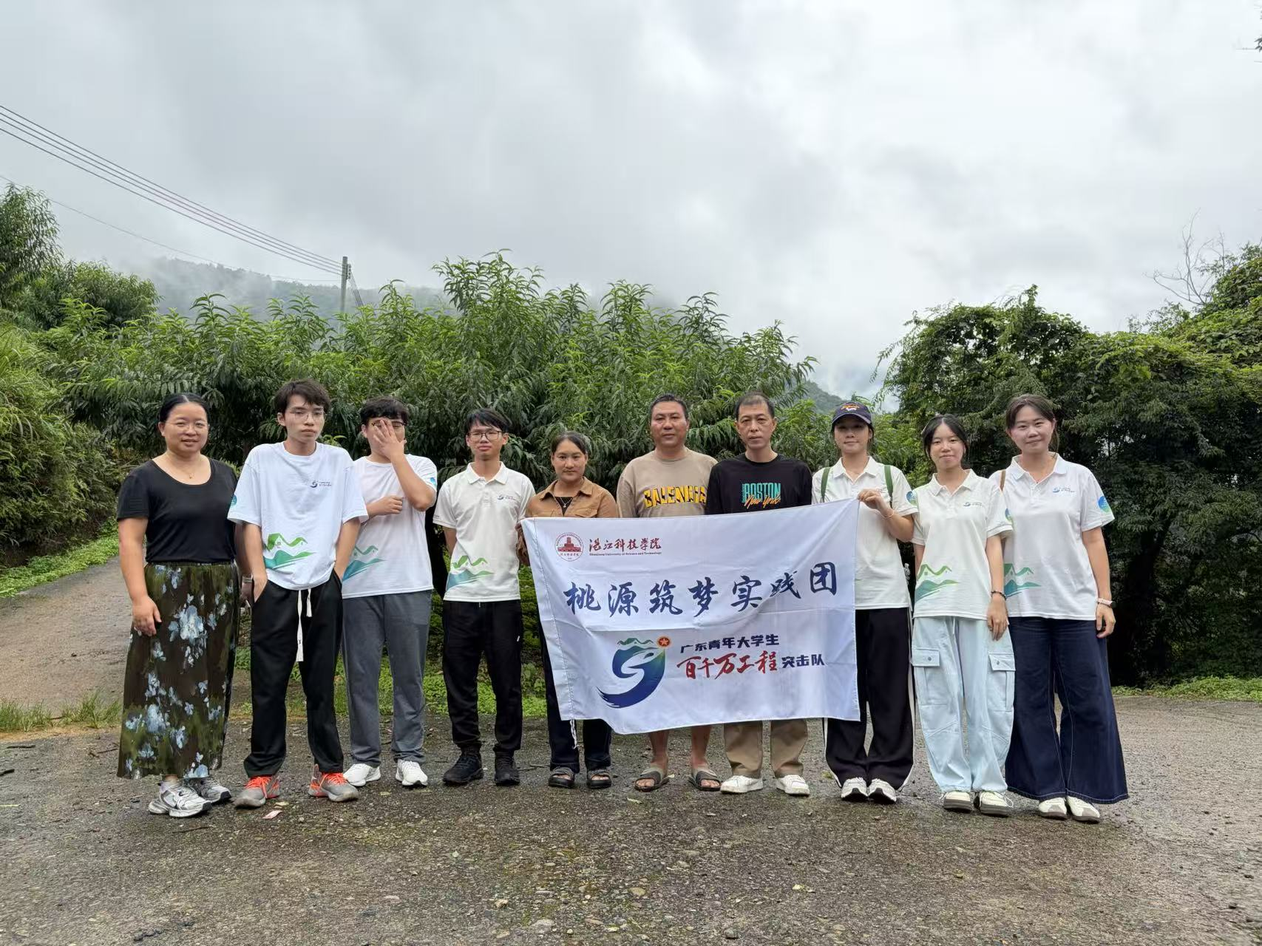
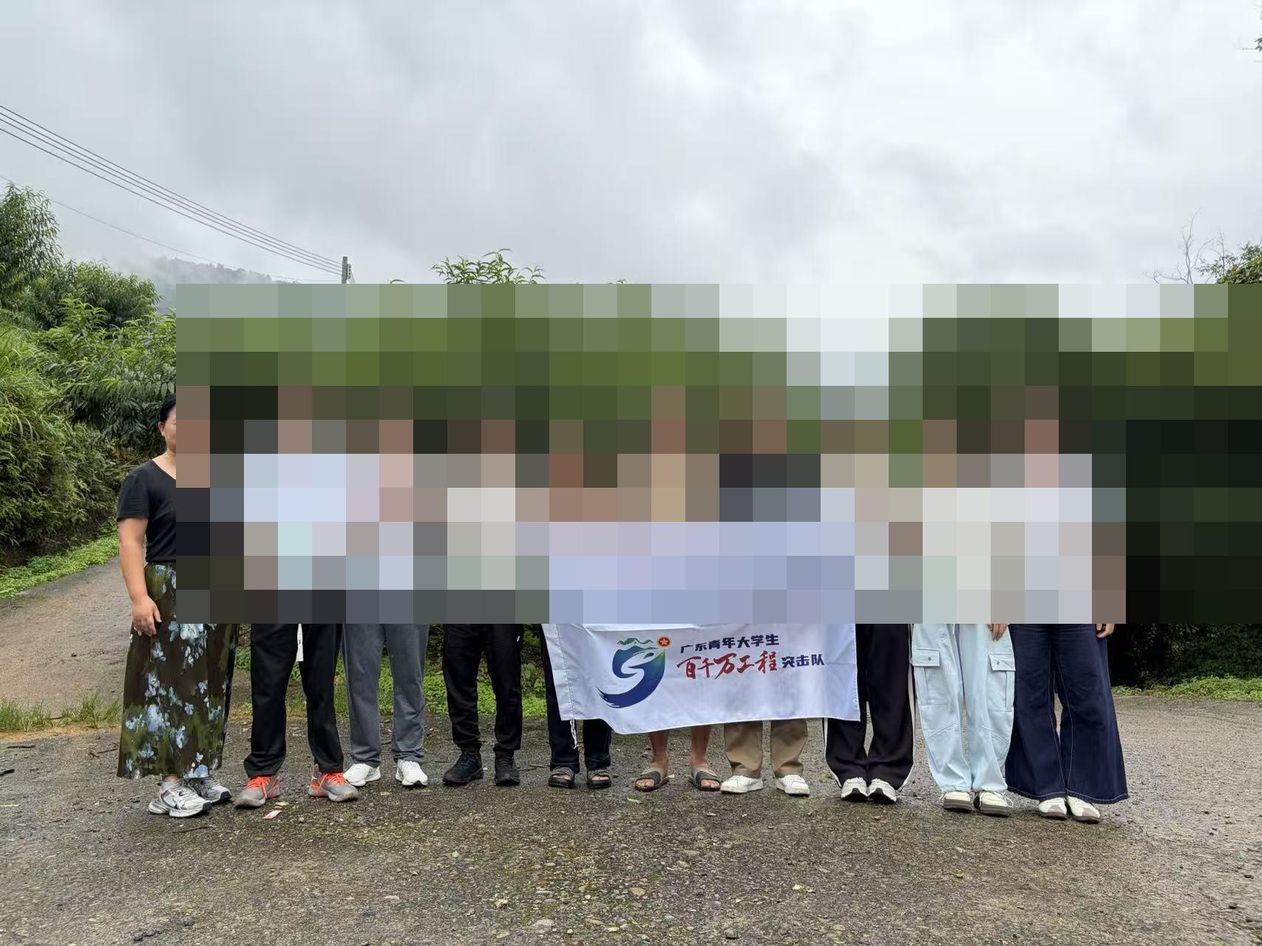
Privacy review: remove personal codes and redact identifying imagery

Changed region(s): [[0.1242, 0.2812, 1.0, 0.6562]]

diff --git a/front-cms.js b/front-cms.js
@@ -14,7 +14,7 @@ window.PeachEnhance = function({api,state,groups,survey,renderers,shell,btn,link
   renderers.operator=()=>shell('OPERATIONS / 05','把一批桃，讲清楚、跟到底。',first('feature_controls')?.operatorIntro||'桃农确认事实，学生采集与表达，经验运营者审核、发布和回访。',`<section class="panel panel-pad"><div class="workflow-note"><img src="${media(first('ip_profile')?.image||'assets/web/xiaotaoman.webp')}" alt=""><div><h3>运营工作已接入独立后台。</h3><p>先核验商品，再用小桃满做表达；咨询进入客户卡，已有渠道成交进入订单台账，履约、回访和经营建议接着回写。</p><div class="action-row"><a class="button button-primary" href="/admin/" target="_blank" rel="noopener">${api.user?'进入运营后台':'登录运营后台'} ↗</a>${link('看公开内容','content')}${link('查看我的记录','records')}</div><details class="compact-details"><summary>进入具体工作</summary><div class="action-row">${[['project','项目与流程'],['work/tasks','青年任务与验收'],['work/orders','订单与履约'],['work/customers','客户与回访'],['work/summary','经营看板']].map(([r,t])=>`<a class="button" href="/admin/#${r}" target="_blank" rel="noopener">${t} ↗</a>`).join('')}</div></details></div></div></section>`,'业务记录受权限保护 · 公开页面展示已发布内容');
   renderers.content=()=>{const keys=Object.keys(ipData);if(!keys.includes(state.content))state.content=keys[0];const d=ipData[state.content];return shell('CONTENT / 06','真实素材，换一种表达。','栏目、渠道脚本和审核后的内容在同一处查阅。',`${d?`<section class="panel panel-pad"><div class="tabs" role="tablist" aria-label="内容主题">${Object.entries(ipData).map(([k,v])=>`<button type="button" data-content="${k}" class="${state.content===k?'is-active':''}">${esc(v.title)}</button>`).join('')}</div><div class="content-workspace"><div class="content-preview"><img src="${media(d.image)}" alt="${esc(d.title)}"><span>素材来源：${esc(d.sourceRef)}</span></div><div><span class="view-kicker">${esc(d.use)}</span><h3>${esc(d.title)}</h3><p>${esc(d.copy)}</p><div class="notice">${esc(d.owner)}</div><div class="channel-grid">${cms.templates.map(t=>btn(t.title,'compose',state.content+':'+t.channel+':'+t.id)).join('')}</div><p class="form-note">模板可编辑、复制、下载；保存与审核需要运营成员登录。模板不冒充在线AI。</p></div></div></section>`:empty('栏目更新中')}${publications()}`,'已发布内容来自后台 · 渠道模板保留事实依据');};
   renderers.rural=()=>{const r=tour();if(!r)return shell('PEACH VILLAGE / 07','一日桃乡','路线更新中',empty());const nodes=r.stops.slice(0,3);return shell('PEACH VILLAGE / 07','跟着小桃满，走一趟桃乡。',r.description,`<div class="section-toolbar"><label>选择路线<select data-tour-select>${cms.tours.map(x=>`<option value="${x.id}" ${x.id===r.id?'selected':''}>${esc(x.name)}</option>`).join('')}</select></label></div><div class="rural-layout"><div class="route-map"${r.image?` style="background-image:linear-gradient(0deg,rgba(8,40,30,.45),rgba(8,40,30,.05)),url(&quot;${esc(media(r.image))}&quot;)"`:""}><div class="route-title"><span>A DAY IN SHANGPING</span><b>${esc(r.name)}</b></div>${nodes.map((s,i)=>`<button class="route-pin ${['one','two','three'][i]}" type="button" data-action="tour-stop" data-value="${i}"><i></i>${esc(s[0])} ↗</button>`).join('')}<span class="route-line"></span><img src="${media(first('ip_profile')?.image||'assets/web/xiaotaoman.webp')}" alt="小桃满导览"></div><section class="panel panel-pad"><h3>先了解，再出发。</h3><div class="tour-stops">${r.stops.map(([t,c],i)=>`<button type="button" data-action="tour-stop" data-value="${i}"><span>${i+1}</span><div><b>${esc(t)}</b><small>${esc(c)}</small></div><em>↗</em></button>`).join('')}</div><div class="notice">${esc(r.conditions)}<br>${r.bookingAvailable?'接待条件已核实，出行仍须运营逐次确认。':'接待条件尚待核实。'}${r.inquiryEnabled===false?'当前暂停收集路线咨询意向。':'可提交咨询意向，等待运营回复。'}<br>可接待日期：${esc(r.openDates.join('、')||'待确认')} · 容量：${r.capacity===null?'待确认':r.capacity+'人'}</div>${tourButton(r)}</section></div>`,'提交意向不生成预约确认或扣款');};
-  renderers.service=()=>shell('CARE / 08','收到桃之后，小桃满还在。','购买前确认规则，签收后留存凭据，遇到问题可在这里反馈。',`<div class="service-layout"><aside class="service-intro"><span class="view-kicker">从收到，到回访</span><h3>先说清，再发货。</h3><p>当批发货、保存及售后说明，以公开批次信息为准。提交反馈后，在原浏览器的“我的记录”中查看处理进度。</p><div class="action-row">${btn('填写售后反馈','claim-form')}${link('查看反馈进度','records')}${link('查看批次','trace')}</div></aside><section class="panel panel-pad"><h3>你可能想先问</h3><div class="faq-list">${cms.faqs.map((f,i)=>`<details class="faq-item" ${i===0?'open':''}><summary><span>0${i+1}</span><b>${esc(f.question)}</b><i aria-hidden="true">＋</i></summary><div class="faq-answer"><p>${esc(f.answer)}</p>${f.sourceRef?`<small>依据：${esc(f.sourceRef)}</small>`:''}</div></details>`).join('')}</div><div class="qr-row">${cms.social.map(x=>`<button class="qr-button" type="button" data-action="social" data-value="${x.id}"><img src="/${esc(x.image).replace(/^\//,'')}" alt="${esc(x.title)}二维码"><span><b>${esc(x.title)}</b><span>点击放大二维码</span></span></button>`).join('')}</div></section></div>`,'反馈与照片保存在后台 · 售后结果由运营核验');
+  renderers.service=()=>shell('CARE / 08','收到桃之后，小桃满还在。','购买前确认规则，签收后留存凭据，遇到问题可在这里反馈。',`<div class="service-layout"><aside class="service-intro"><span class="view-kicker">从收到，到回访</span><h3>先说清，再发货。</h3><p>当批发货、保存及售后说明，以公开批次信息为准。提交反馈后，在原浏览器的“我的记录”中查看处理进度。</p><div class="action-row">${btn('填写售后反馈','claim-form')}${link('查看反馈进度','records')}${link('查看批次','trace')}</div></aside><section class="panel panel-pad"><h3>你可能想先问</h3><div class="faq-list">${cms.faqs.map((f,i)=>`<details class="faq-item" ${i===0?'open':''}><summary><span>0${i+1}</span><b>${esc(f.question)}</b><i aria-hidden="true">＋</i></summary><div class="faq-answer"><p>${esc(f.answer)}</p>${f.sourceRef?`<small>依据：${esc(f.sourceRef)}</small>`:''}</div></details>`).join('')}</div><div class="qr-row">${cms.social.map(x=>`<button class="qr-button" type="button" data-action="social" data-value="${x.id}"><img src="/${esc(x.image).replace(/^\//,'')}" alt="${esc(x.title)}二维码"><span><b>${esc(x.title)}</b><span>查看联系说明</span></span></button>`).join('')}</div></section></div>`,'反馈与照片保存在后台 · 售后结果由运营核验');
   renderers.records=()=>{const records=api.snapshot().records,list=records.filter(x=>state.records==='all'||x.kind===state.records);return shell('MY RECORDS','每次操作，都有下文。',first('feature_controls')?.recordsNote||'这里显示当前浏览器提交的最近100条记录。保留Cookie才能自动查询；记录不会向其他访客公开。',`<div class="section-toolbar"><div class="tabs" role="tablist" aria-label="记录类型">${[['all','全部'],['consultation','商品咨询'],['claim','售后反馈'],['tour','路线意向']].map(([k,v])=>`<button type="button" data-record-filter="${k}" class="${state.records===k?'is-active':''}">${v} · ${k==='all'?records.length:records.filter(r=>r.kind===k).length}</button>`).join('')}</div>${btn('导出我的记录','export-records')}${btn('刷新处理进度','refresh-records')}</div>${list.length?`<div class="record-list">${list.map(r=>`<article class="record-card"><div><span class="status status-${r.status==='resolved'?'evidence':'pending'}">${({pending:'待跟进',processing:'处理中',resolved:'处理完成'})[r.status]}</span><small>${esc(r.kind==='tour'?'出行意向':r.kind==='claim'?'售后反馈':'商品咨询')}</small></div><h4>${esc(r.productName||r.date||'售后反馈')}</h4><p>${esc(r.name)} · ${esc(r.region)}</p>${r.reply?`<p class="record-reply">运营回复：${esc(r.reply)}</p>`:''}<div class="record-bottom"><code>${esc(r.id)}</code>${btn('查看详情','record',r.id)}</div></article>`).join('')}</div>`:empty('这里还没有记录','先咨询一个规格，或提交售后与出行意向。','consumer')}`,'仅显示本浏览器提交记录 · 跟进操作由后台成员完成');};
   const originalAPI=renderers.api;renderers.api=()=>originalAPI().replaceAll('执行本地请求','执行服务端请求').replaceAll('本地接口清单','服务端接口清单').replaceAll('当前实现本地数据与校验，真实后台须实现同样契约并增加服务端权限。','当前使用服务端校验、数据库和权限控制。运营操作需要后台成员登录。').replaceAll('当前无远端服务器、文件上传或在线模型调用。','已接入数据库与图片存储；当前未接入在线模型。').replaceAll('写入仅影响本地演示','写入由服务器保存').replaceAll('请求会执行本地实现，写入会产生本地演示记录。','公开写入会保存到服务器；运营接口由账号权限保护。').replaceAll('完整接入说明见BACKEND.md。','管理员可在后台查看运行与备份状态。');
   const s=first('settings');if(s){document.querySelector('.brand strong').textContent=s.brand;const title=document.querySelector('#home-title');title.textContent=s.slogan;document.querySelector('.hero-copy>p').textContent=s.heroIntro;document.querySelector('.hero-note>span:last-child').textContent=s.heroNote;document.querySelector('.hero-photo img').src=media(s.heroPhoto);document.querySelector('.hero-ip img').src=media(s.ipImage);document.querySelector('.proof-grid').innerHTML=s.proofs.map(([n,t,d])=>`<div><b>${esc(n)}</b><span>${esc(t)}</span><small>${esc(d)}</small></div>`).join('');}
@@ -34,7 +34,7 @@ window.PeachEnhance = function({api,state,groups,survey,renderers,shell,btn,link
     if(type==='ip-guide'){const p=first('ip_profile');download('小桃满_使用说明.txt',p.name+'\n'+p.identity+'\n'+p.guide+'\n来源：'+p.sourceRef);return true;}
     if(type==='tour-form'&&tour()?.inquiryEnabled===false){toast('该路线已暂停接收咨询意向，请稍后查看。');return true;}
     if(type==='tour-stop'){const r=tour(),stop=r?.stops[Number(value)];if(!stop)throw Error('路线节点已变化，请刷新');openModal(`<h3 id="modal-title">${esc(stop[0])}</h3><p>${esc(stop[1])}</p><p>${esc(r.conditions)}</p>${tourButton(r,'记录路线意向')}`);return true;}
-    if(type==='social'||type==='download-social'){const s=cms.social.find(x=>x.id===value);if(!s)throw Error('联系入口不存在');if(type==='download-social')asset(s.image,s.title+'.'+s.image.split('.').pop());else openModal(`<h3 id="modal-title">${esc(s.title)}</h3><p>${esc(s.description)}</p><img class="social-qr" src="/${esc(s.image).replace(/^\//,'')}" alt="${esc(s.title)}">${btn('下载二维码','download-social',value)}`);return true;}
+    if(type==='social'||type==='download-social'){const s=cms.social.find(x=>x.id===value);if(!s)throw Error('联系入口不存在');if(type==='download-social')asset(s.image,s.title+'.'+s.image.split('.').pop());else openModal(`<h3 id="modal-title">${esc(s.title)}</h3><p>${esc(s.description)}</p><img class="social-qr" src="/${esc(s.image).replace(/^\//,'')}" alt="${esc(s.title)}">${btn('下载联系说明','download-social',value)}`);return true;}
     return false;
   },tourId:()=>tour()?.id,template(key,channel,templateId){const d=ipData[key]||Object.values(ipData)[0],t=cms.templates.find(x=>templateId?x.id===templateId:x.channel===channel);if(!d||!t)return null;return{title:d.title+' · '+t.title,body:t.body.replace(/\{(title|copy|voice)\}/g,(_,k)=>d[k]||'')};}};
   document.addEventListener('change',e=>{if(e.target.matches('[data-tour-select]')){state.tourId=e.target.value;document.dispatchEvent(new CustomEvent('peach:refresh'));}});

diff --git a/app.js b/app.js
@@ -57,7 +57,7 @@ function renderContent(){const d=ipData[state.content];return shell('CONTENT / 0
 function renderRural(){const stops=[['桃园观察','认识花期、套袋和成熟节奏；开放日期、人数和安全条件待确认。'],['分拣体验','认识规格分级与包装；指导人员、时长和卫生规范待确认。'],['集市与礼盒','产地记忆进入礼盒和回访；商品按当季批次确认。']];return shell('PEACH VILLAGE / 07','跟着小桃满，走一趟桃乡。','接待日期、人员与容量待合作方核验。可以记录出行意向，之后再确认。',`
  <div class="rural-layout"><div class="route-map"><div class="route-title"><span>A DAY IN SHANGPING</span><b>一日桃乡</b></div>${['one','two','three'].map((k,i)=>`<button class="route-pin ${k}" type="button" data-action="tour-stop" data-value="${i}"><i></i>${stops[i][0]} ↗</button>`).join('')}<span class="route-line"></span><img src="assets/web/xiaotaoman.webp" alt="小桃满导览形象"></div><section class="panel panel-pad"><span class="view-kicker">看见 → 参与 → 带走</span><h3>先了解，再出发。</h3><div class="tour-stops">${stops.map(([t,c],i)=>`<button type="button" data-action="tour-stop" data-value="${i}"><span>0${i+1}</span><div><b>${t}</b><small>${c}</small></div><em>↗</em></button>`).join('')}</div><div class="notice">当前未开放预约。提交意向不锁定名额、不收费，也不代表果园已接受预约。</div>${btn('记录路线咨询意向','tour-form')}</section></div>`,'路线设计示意 · 未确认开放时间 · 记录意向后等待跟进');}
 function renderService(){return shell('CARE / 08','收到桃之后，小桃满还在。','购买前确认规则，签收时留下记录，反馈后继续跟进。售后结果由运营核验。',`
- <div class="service-layout"><aside class="service-intro"><span class="view-kicker">从收到，到回访</span><h3>先说清，再发货。</h3><p>到货时效、损耗和赔付结果须有当批依据。</p><div class="service-steps"><div><b>01 · 购买前</b><span>确认规格、到手总价、发货窗口与售后。</span></div><div><b>02 · 签收时</b><span>检查外箱和果品，留存外箱、面单和照片。</span></div><div><b>03 · 反馈后</b><span>核验后记录处理备注，继续回访。</span></div></div><div class="action-row">${btn('填写售后反馈','claim-form')}${link('查看反馈进度','records')}</div></aside><section class="panel panel-pad"><h3>你可能想先问</h3><div class="faq-list">${[['什么时候发货？','鲜果按成熟度分批采摘。具体日期、区域与运费按可售批次确认；问卷的48小时情境不是配送承诺。'],['收到后如何保存？','先检查外箱和果品，按随箱的当批食用指南保存。没有明确温度与时长时，不用演示文案代替正式指南。'],['有破损或物流问题怎么办？','保留外箱、面单与果品照片，及时联系运营，按购买前公开的批次规则核验。反馈提交不等于已确认赔付。']].map(([t,c],i)=>`<details class="faq-item" ${i===0?'open':''}><summary><span>0${i+1}</span><b>${t}</b><i aria-hidden="true">＋</i></summary><div class="faq-answer"><p>${c}</p></div></details>`).join('')}</div><div class="qr-row">${[['wechat','微信咨询','wechat-contact.png'],['douyin','抖音看果园','douyin.png'],['xhs','小红书看礼盒','xiaohongshu.jpg']].map(([k,t,p])=>`<button class="qr-button" type="button" data-action="social" data-value="${k}"><img src="assets/${p}" alt="${t}二维码"><span><b>${t}</b><span>点击放大二维码</span></span></button>`).join('')}</div></section></div>`,'反馈可保存和跟进 · 页面不确认实际退款或赔付');}
+ <div class="service-layout"><aside class="service-intro"><span class="view-kicker">从收到，到回访</span><h3>先说清，再发货。</h3><p>到货时效、损耗和赔付结果须有当批依据。</p><div class="service-steps"><div><b>01 · 购买前</b><span>确认规格、到手总价、发货窗口与售后。</span></div><div><b>02 · 签收时</b><span>检查外箱和果品，留存外箱、面单和照片。</span></div><div><b>03 · 反馈后</b><span>核验后记录处理备注，继续回访。</span></div></div><div class="action-row">${btn('填写售后反馈','claim-form')}${link('查看反馈进度','records')}</div></aside><section class="panel panel-pad"><h3>你可能想先问</h3><div class="faq-list">${[['什么时候发货？','鲜果按成熟度分批采摘。具体日期、区域与运费按可售批次确认；问卷的48小时情境不是配送承诺。'],['收到后如何保存？','先检查外箱和果品，按随箱的当批食用指南保存。没有明确温度与时长时，不用演示文案代替正式指南。'],['有破损或物流问题怎么办？','保留外箱、面单与果品照片，及时联系运营，按购买前公开的批次规则核验。反馈提交不等于已确认赔付。']].map(([t,c],i)=>`<details class="faq-item" ${i===0?'open':''}><summary><span>0${i+1}</span><b>${t}</b><i aria-hidden="true">＋</i></summary><div class="faq-answer"><p>${c}</p></div></details>`).join('')}</div><div class="qr-row">${[['wechat','微信咨询','contact-safe.png'],['douyin','抖音看果园','contact-safe.png'],['xhs','小红书看礼盒','contact-safe.png']].map(([k,t,p])=>`<button class="qr-button" type="button" data-action="social" data-value="${k}"><img src="assets/${p}" alt="${t}二维码"><span><b>${t}</b><span>查看联系说明</span></span></button>`).join('')}</div></section></div>`,'反馈可保存和跟进 · 页面不确认实际退款或赔付');}
 let slides=[
  {title:'问题与证据',copy:'199/206名产业端受访者回答不会用线上软件卖桃。消费者希望看真实果园与分拣内容，关注口感、完好度和到手总价。',source:'Q06 · C14 / C20 / C25',route:'evidence',image:'origin-walk.jpeg'},
  {title:'消费者路径',copy:'家庭、礼赠和团购分别推荐；规格、参考价及未知履约条件在咨询前展示。意向保存后进入跟进列表。',source:'C15 / C16 / C17 · icanAIOPC商品方案',route:'consumer',image:'fact-gift-c1.jpg'},
@@ -108,8 +108,8 @@ async function action(type,value,el){
  if(type==='publication'){const p=api.snapshot().ops.publications[0];if(p)publication(p);else toast('暂无本地发布记录。');return;}
  if(type==='copy-publication'){const p=api.snapshot().ops.publications[0];if(p)await copy(p.title+'\n'+p.body);return;}
  if(type==='tour-stop'){const stops=[['桃园观察','观看花期、套袋与成熟记录；开放日期、人数、安全提示和天气条件待确认。'],['小桃满分拣台','了解重量分档与装箱；指导人员、体验时间、卫生规范与参与范围待确认。'],['集市与礼盒','体验连接礼盒与线上回访；规格、价格、运费和售后按当批确认。']],s=stops[Number(value)];openModal(`<span class="view-kicker">一日桃乡 · 路线节点</span><h3 id="modal-title">${s[0]}</h3><p>${s[1]}</p><div class="notice">体验设计示意，当前未确认开放。</div>${btn('记录路线意向','tour-form')}`);return;}
- if(type==='social'){const s={wechat:['微信咨询','wechat-contact.png'],douyin:['抖音看果园','douyin.png'],xhs:['小红书看礼盒','xiaohongshu.jpg']}[value];openModal(`<span class="view-kicker">项目现有社交入口</span><h3 id="modal-title">${s[0]}</h3><p>二维码来自项目资料，实时账号状态请在对应应用确认。</p><img class="social-qr" src="assets/${s[1]}" alt="${s[0]}二维码">${btn('下载二维码','download-social',value)}`);return;}
- if(type==='download-social'){const p={wechat:'wechat-contact.png',douyin:'douyin.png',xhs:'xiaohongshu.jpg'}[value];asset('assets/'+p,p);return;}
+ if(type==='social'){const s={wechat:['微信咨询','contact-safe.png'],douyin:['抖音看果园','contact-safe.png'],xhs:['小红书看礼盒','contact-safe.png']}[value];openModal(`<span class="view-kicker">项目现有社交入口</span><h3 id="modal-title">${s[0]}</h3><p>个人联系二维码已移除，请使用本站商品咨询或售后反馈表单联系运营。</p><img class="social-qr" src="assets/${s[1]}" alt="${s[0]}二维码">${btn('下载联系说明','download-social',value)}`);return;}
+ if(type==='download-social'){const p={wechat:'contact-safe.png',douyin:'contact-safe.png',xhs:'contact-safe.png'}[value];asset('assets/'+p,p);return;}
  if(type==='slide-next'||type==='slide-prev'){state.slide=(state.slide+(type==='slide-next'?1:slides.length-1))%slides.length;refresh();return;}
  if(type==='copy-slide'){const s=slides[state.slide];await copy(s.title+'\n'+s.copy+'\n材料依据：'+s.source);return;}
  if(type==='confirm-reset'){openModal(`<h3 id="modal-title">清空本地演练记录？</h3><p>将清空此浏览器的咨询、售后、路线意向、草稿、复核及发布记录。项目调研数据和素材仍可使用。</p><div class="modal-actions">${btn('先导出备份','export-records')}${btn('确认清空','reset')}${btn('取消','close')}</div>`);return;}

diff --git a/server/app.js b/server/app.js
@@ -61,7 +61,7 @@ export function createApp(db,{production=false,secret=token(),appUrl='http://loc
   app.get('/api/admin/source-media/:filename',requireRole('admin','operator','editor','viewer'),async(req,res)=>{if(!/^IMG-[a-f0-9]+[.]webp$/.test(req.params.filename))fail(404,'素材不存在');const f=await one(db,"SELECT mime,bytes FROM media WHERE id=$1 AND visibility='private' AND record_id IS NULL",[req.params.filename.slice(0,-5)]);if(!f)fail(404,'素材不存在');res.type(f.mime).set('Cache-Control','private, no-store').send(Buffer.from(f.bytes));});
   app.get('/api/admin/assets',requireRole('admin','operator','editor','viewer'),async(req,res)=>{const result=[];async function walk(dir,prefix){for(const f of await readdir(dir,{withFileTypes:true})){if(f.isDirectory())await walk(resolve(dir,f.name),prefix+'/'+f.name);else if(/\.(png|jpe?g|webp)$/i.test(f.name))result.push({name:f.name,url:prefix+'/'+f.name});}}await walk(resolve(ROOT,'assets'),'assets');send(res,result);});
   app.post('/api/admin/media',requireRole('admin','operator','editor'),upload.single('image'),async(req,res)=>{if(!req.file)fail(422,'请选择图片');const [f]=await imageFiles([req.file]);const alt=String(req.body.alt||'').slice(0,300),sourceRef=String(req.body.sourceRef||'').slice(0,300);await db.transaction(async tx=>{await tx.query('INSERT INTO media(id,name,mime,size,visibility,bytes,alt,source_ref,actor_id) VALUES($1,$2,$3,$4,$5,$6,$7,$8,$9)',[f.id,f.name,f.mime,f.bytes.length,'public',f.bytes,alt,sourceRef,req.user.id]);await audit(tx,req.user,'media.upload',f.id,{name:f.name,size:f.bytes.length});});send(res,{id:f.id,url:'/media/'+f.id+'.webp',name:f.name},201);});
-  app.get('/media/:filename',async(req,res)=>{if(!/^IMG-[a-f0-9]+\.webp$/.test(req.params.filename))fail(404,'素材不存在');const f=await one(db,"SELECT mime,bytes FROM media WHERE id=$1 AND visibility='public'",[req.params.filename.slice(0,-5)]);if(!f)fail(404,'素材不存在');res.type(f.mime).set('Cache-Control','public,max-age=86400,immutable').send(Buffer.from(f.bytes));});
+  app.get('/media/:filename',async(req,res)=>{if(!/^IMG-[a-f0-9]+\.webp$/.test(req.params.filename))fail(404,'素材不存在');const f=await one(db,"SELECT mime,bytes FROM media WHERE id=$1 AND visibility='public'",[req.params.filename.slice(0,-5)]);if(!f)fail(404,'素材不存在');res.type(f.mime).set('Cache-Control','no-store').send(Buffer.from(f.bytes));});
   app.get('/api/admin/audit',requireRole('admin','operator','viewer'),async(req,res)=>{const{page,limit}=pageParams(req.query),total=Number((await one(db,'SELECT count(*) AS n FROM audit_logs')).n),rows=(await db.query('SELECT * FROM audit_logs ORDER BY id DESC LIMIT $1 OFFSET $2',[limit,(page-1)*limit])).rows;send(res,{items:rows,total,page,limit});});
   app.get('/api/admin/system',requireRole('admin'),async(req,res)=>{const counts={};for(const t of ['content_items','business_records','media','drafts','publications','analytics_events','request_logs','users'])counts[t]=Number((await one(db,'SELECT count(*) AS n FROM '+t)).n);const size=await one(db,'SELECT coalesce(sum(size),0) AS bytes FROM media');send(res,{version:'4.0.0',database:db.kind,production,node:process.version,uptime:Math.round(process.uptime()),counts,mediaBytes:Number(size.bytes),settings:await settings(db),schema:(await one(db,"SELECT value FROM app_meta WHERE key='schema_version'")).value,backupNote:'备份包含业务数据与图片，不含密码哈希和有效会话；恢复后需重新登录。正式环境另需配置Neon备份保留。'});});
   app.get('/api/admin/backup',requireRole('admin'),async(req,res)=>{await audit(db,req.user,'system.backup');const bytes=await createBackup(db);res.type('application/gzip').set('Content-Disposition','attachment; filename="taoxiang-backup-'+new Date().toISOString().slice(0,10)+'.json.gz"').send(bytes);});
@@ -70,7 +70,7 @@ export function createApp(db,{production=false,secret=token(),appUrl='http://loc
   app.use('/api/admin',workflowRouter(db,send));
   app.use('/api',(req,res)=>fail(404,'接口或请求方法不存在'));
   app.use('/admin',express.static(resolve(ROOT,'admin'),{index:'index.html',dotfiles:'deny'}));
-  app.use('/assets',express.static(resolve(ROOT,'assets'),{maxAge:'1d',dotfiles:'deny'}));
+  app.use('/assets',express.static(resolve(ROOT,'assets'),{maxAge:'1d',dotfiles:'deny',setHeaders:(res,file)=>{if(/(?:wechat|douyin|xiaohongshu|contact-safe|origin-walk|peach-market|sorting-check)/i.test(file))res.setHeader('Cache-Control','no-store');}}));
   const publicFiles=new Set(['index.html','styles.css','interactions.css','source-data.js','project-data.js','api.js','remote-api.js','front-cms.js','presentation-cms.js','analytics-client.js','app.js','BACKEND.md']);
   app.get('/',(req,res)=>res.sendFile(resolve(ROOT,'index.html')));
   app.get('/:file',(req,res,next)=>{if(!publicFiles.has(req.params.file))return next();res.sendFile(resolve(ROOT,req.params.file));});

diff --git a/scripts/prepare-seed.js b/scripts/prepare-seed.js
@@ -39,7 +39,7 @@ for(const [slug,title,type,body,sourceRef]of [
  ['collection','30人次访谈汇编','qualitative','与独立访谈可能重合，不简单相加。80／120／150箱采购经历不属于团队交易。未经账目核验不写成经营实绩。','附件06']])add('interviews',slug,{title,type,body,sourceRef});
 add('tours','tour-shangping',{name:'一日桃乡',description:'接待日期、人员与容量待合作方核验。可以记录出行意向，之后再确认。',stops:[['桃园观察','认识花期、套袋和成熟节奏；开放日期、人数和安全条件待确认。'],['分拣体验','认识规格分级与包装；指导人员、时长和卫生规范待确认。'],['集市与礼盒','产地记忆进入礼盒和回访；商品按当季批次确认。']],openDates:[],capacity:null,bookingAvailable:false,conditions:'提交意向不锁定名额、不收费，也不代表果园已接受预约。',sourceRef:'项目路线设计，开放安排待确认'});
 for(const [i,[question,answer]]of [['什么时候发货？','鲜果按成熟度分批采摘。具体日期、区域与运费按可售批次确认；问卷的48小时情境不是配送承诺。'],['收到后如何保存？','先检查外箱和果品，按随箱的当批食用指南保存。没有明确温度与时长时，不用演示文案代替正式指南。'],['有破损或物流问题怎么办？','保留外箱、面单与果品照片，及时联系运营，按购买前公开的批次规则核验。反馈提交不等于已确认赔付。']].entries())add('faqs','faq-'+i,{question,answer,sourceRef:'项目服务说明，按实际批次确认'});
-for(const [slug,title,image]of [['wechat','微信咨询','wechat-contact.png'],['douyin','抖音看果园','douyin.png'],['xhs','小红书看礼盒','xiaohongshu.jpg']])add('social',slug,{title,image:'assets/'+image,description:'二维码来自项目资料，实时账号状态请在对应应用确认。',sourceRef:'项目现有社交入口'});
+for(const [slug,title,image]of [['wechat','微信咨询','contact-safe.png'],['douyin','抖音看果园','contact-safe.png'],['xhs','小红书看礼盒','contact-safe.png']])add('social',slug,{title,image:'assets/'+image,description:'个人联系二维码已移除，请使用本站商品咨询或售后反馈表单联系运营。',sourceRef:'项目现有社交入口'});
 slides.forEach((s,i)=>add('slides','slide-'+i,{...s,image:'assets/'+s.image}));
 for(const [slug,title,body]of [['video','短视频脚本','镜头1｜带日期的真实素材\n{title}\n{copy}\n小桃满提醒：{voice}\n行动：先核对到手总价、运费与发货窗口，再留下咨询意向。'],['live','直播讲解','开场｜先看批次与规格\n{title}\n{copy}\n小桃满提醒：{voice}\n行动：先核对到手总价、运费与发货窗口，再留下咨询意向。'],['group','社群通知','社群通知｜{title}\n{copy}\n小桃满提醒：{voice}\n行动：先核对到手总价、运费与发货窗口，再留下咨询意向。'],['card','随箱说明卡','小桃满的随箱提醒\n批次号：[当批填写]\n产地与采摘日：[核验后填写]\n净重／个数／分级：[按实填写]\n保存指南：[按当批说明填写]\n破损反馈：留存外箱、面单与果品照片，按批次规则核验。']])add('templates',slug,{title,channel:slug,body,sourceRef:'项目渠道内容结构模板，未调用在线AI'});
 add('settings','site',{brand:'数商桃乡',slogan:'数商桃乡，让好桃被看见',heroIntro:pageTitles.home[2],heroNote:'商品参考方案与示例批次有明确状态标识，实际履约需按批次确认。',heroPhoto:'assets/origin-walk.jpeg',ipImage:'assets/xiaotaoman.png',proofs:[['206','产业端受访者','159户自有果园 + 47名代管者'],['243','消费者有效样本','购买偏好与首购阻力'],['437','学生与 OPC 调查','其中351人在校'],['1 批桃','从采摘到回访','示例流程，非实际经营数据']],analyticsEnabled:true,analyticsRetentionDays:180,requestRetentionDays:30,privacyNotice:'本站保存你主动提交的咨询、售后与出行意向，以便项目运营跟进；不在公开页面展示个人记录。访问统计使用匿名标识，不记录完整IP或表单正文。可在页脚关闭访问统计。清除浏览器Cookie后将无法自动找回此前记录，请保留记录编号。',contact:'桃源筑梦团队'});
